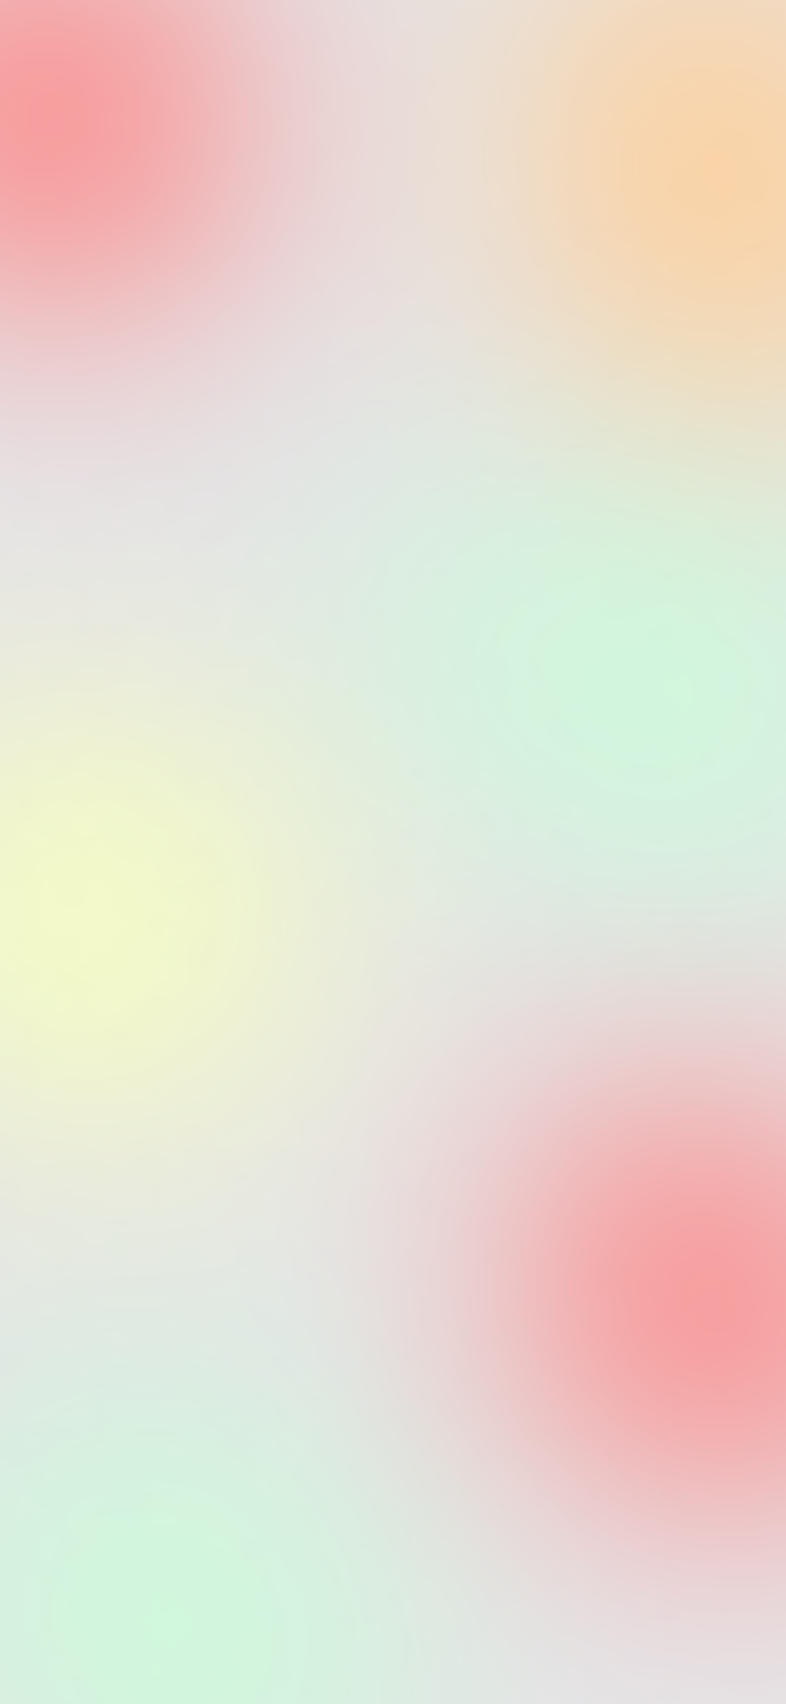
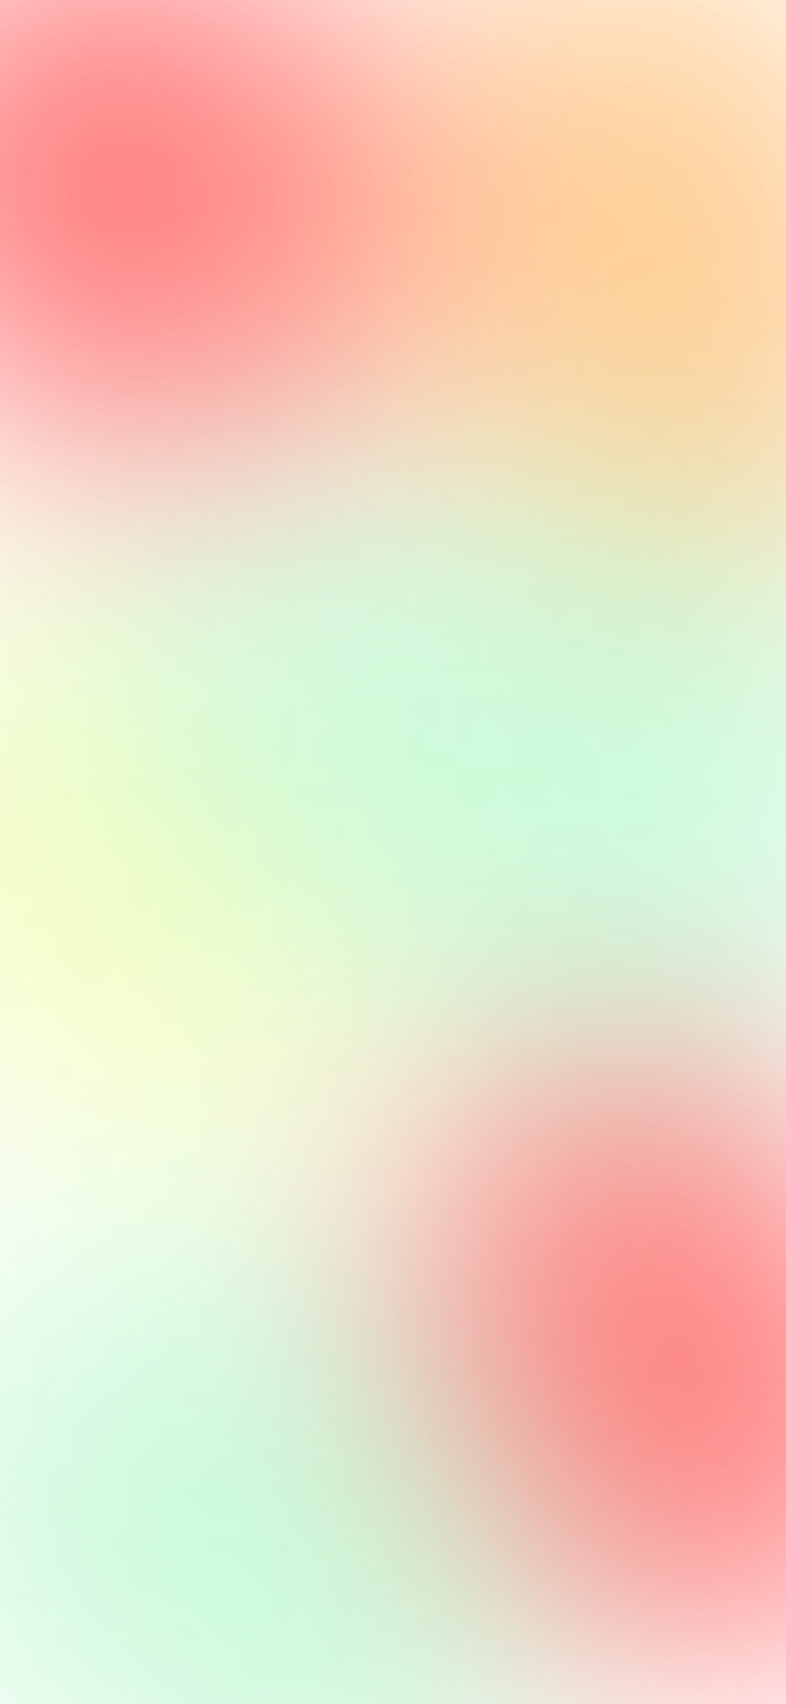
check

Changed region(s): [[0.0, 0.0, 0.9771, 0.311], [0.5191, 0.6843, 1.0, 1.0]]

diff --git a/Nugget/AdviceView.swift b/Nugget/AdviceView.swift
@@ -16,23 +16,72 @@ struct AdviceView: View {
             
             Image("bg")
                 .ignoresSafeArea()
-                .opacity(0.85)
+                .opacity(/*@START_MENU_TOKEN@*/0.8/*@END_MENU_TOKEN@*/)
+            
+            VStack{
+                Text("Trust yourself!")
+                    .font(.custom("RobotoMono-Medium", size: 15))
+                    .frame(maxWidth: 326)
+                    .foregroundStyle(.white)
+                    .padding(.vertical, 10)
+                Spacer()
+            }.padding(50)
             
             VStack {
-                Text("„")
-                    .font(.custom("RobotoMono-Medium", size: 40))
+                Text("🫶🏻")
+                    .font(.custom("RobotoMono-Medium", size: 45))
                 Text(viewmodel.advice.advice)
-                    .font(.custom("RobotoMono-Medium", size: 40))
-                    .frame(maxWidth: .infinity, maxHeight: 300, alignment: .leading)
-                Text("„")
-                    .font(.custom("RobotoMono-Medium", size: 40))
+                    .font(.custom("RobotoMono-Medium", size: 30))
+                    .frame(maxWidth: 326)
+                    .foregroundStyle(.black)
+                    .padding(.vertical, 10)
+                Text("🫶🏻")
+                    .font(.custom("RobotoMono-Medium", size: 45))
             }
-            .padding(.horizontal, 30)
+            .padding(.horizontal, 40)
             .foregroundStyle(.font01)
+            
+            VStack{
+                Spacer()
+                HStack {
+                    Button(action: {
+                        viewmodel.getAdvice()
+                    }, label: {
+                        Circle()
+                            .frame(width: 70, height: 70)
+                            .foregroundStyle(.whity)
+                            .overlay {
+                                Image(systemName: "arrow.clockwise")
+                                    .imageScale(.large)
+                                    .foregroundStyle(.black)
+                            }
+                    })
+                    Spacer()
+                    Circle()
+                        .frame(width: 70, height: 70)
+                        .foregroundStyle(.whity)
+                        .overlay {
+                            Image(systemName: "heart")
+                                .imageScale(.large)
+                                .foregroundStyle(.black)
+                        }
+                    Spacer()
+                    Circle()
+                        .frame(width: 70, height: 70)
+                        .foregroundStyle(.whity)
+                        .overlay {
+                            Image(systemName: "square.and.arrow.up")
+                                .imageScale(.large)
+                                .foregroundStyle(.black)
+                        }
+                }
+                
+            }.padding(50)
         }
         .task {
             viewmodel.getAdvice()
         }
+        
     }
 }
 

diff --git a/Nugget/Networkmanager/Networkmanager.swift b/Nugget/Networkmanager/Networkmanager.swift
@@ -29,7 +29,7 @@ final class NetworkManager {
             throw APError.invalidURL
         }
         
-        var request = URLRequest(url: url)
+        let request = URLRequest(url: url)
         
         do {
             let (data, _) = try await URLSession.shared.data(for: request)

diff --git a/Nugget/NuggetApp.swift b/Nugget/NuggetApp.swift
@@ -12,6 +12,7 @@ struct NuggetApp: App {
     var body: some Scene {
         WindowGroup {
             AdviceView()
+                .preferredColorScheme(.light)
         }
     }
 }
